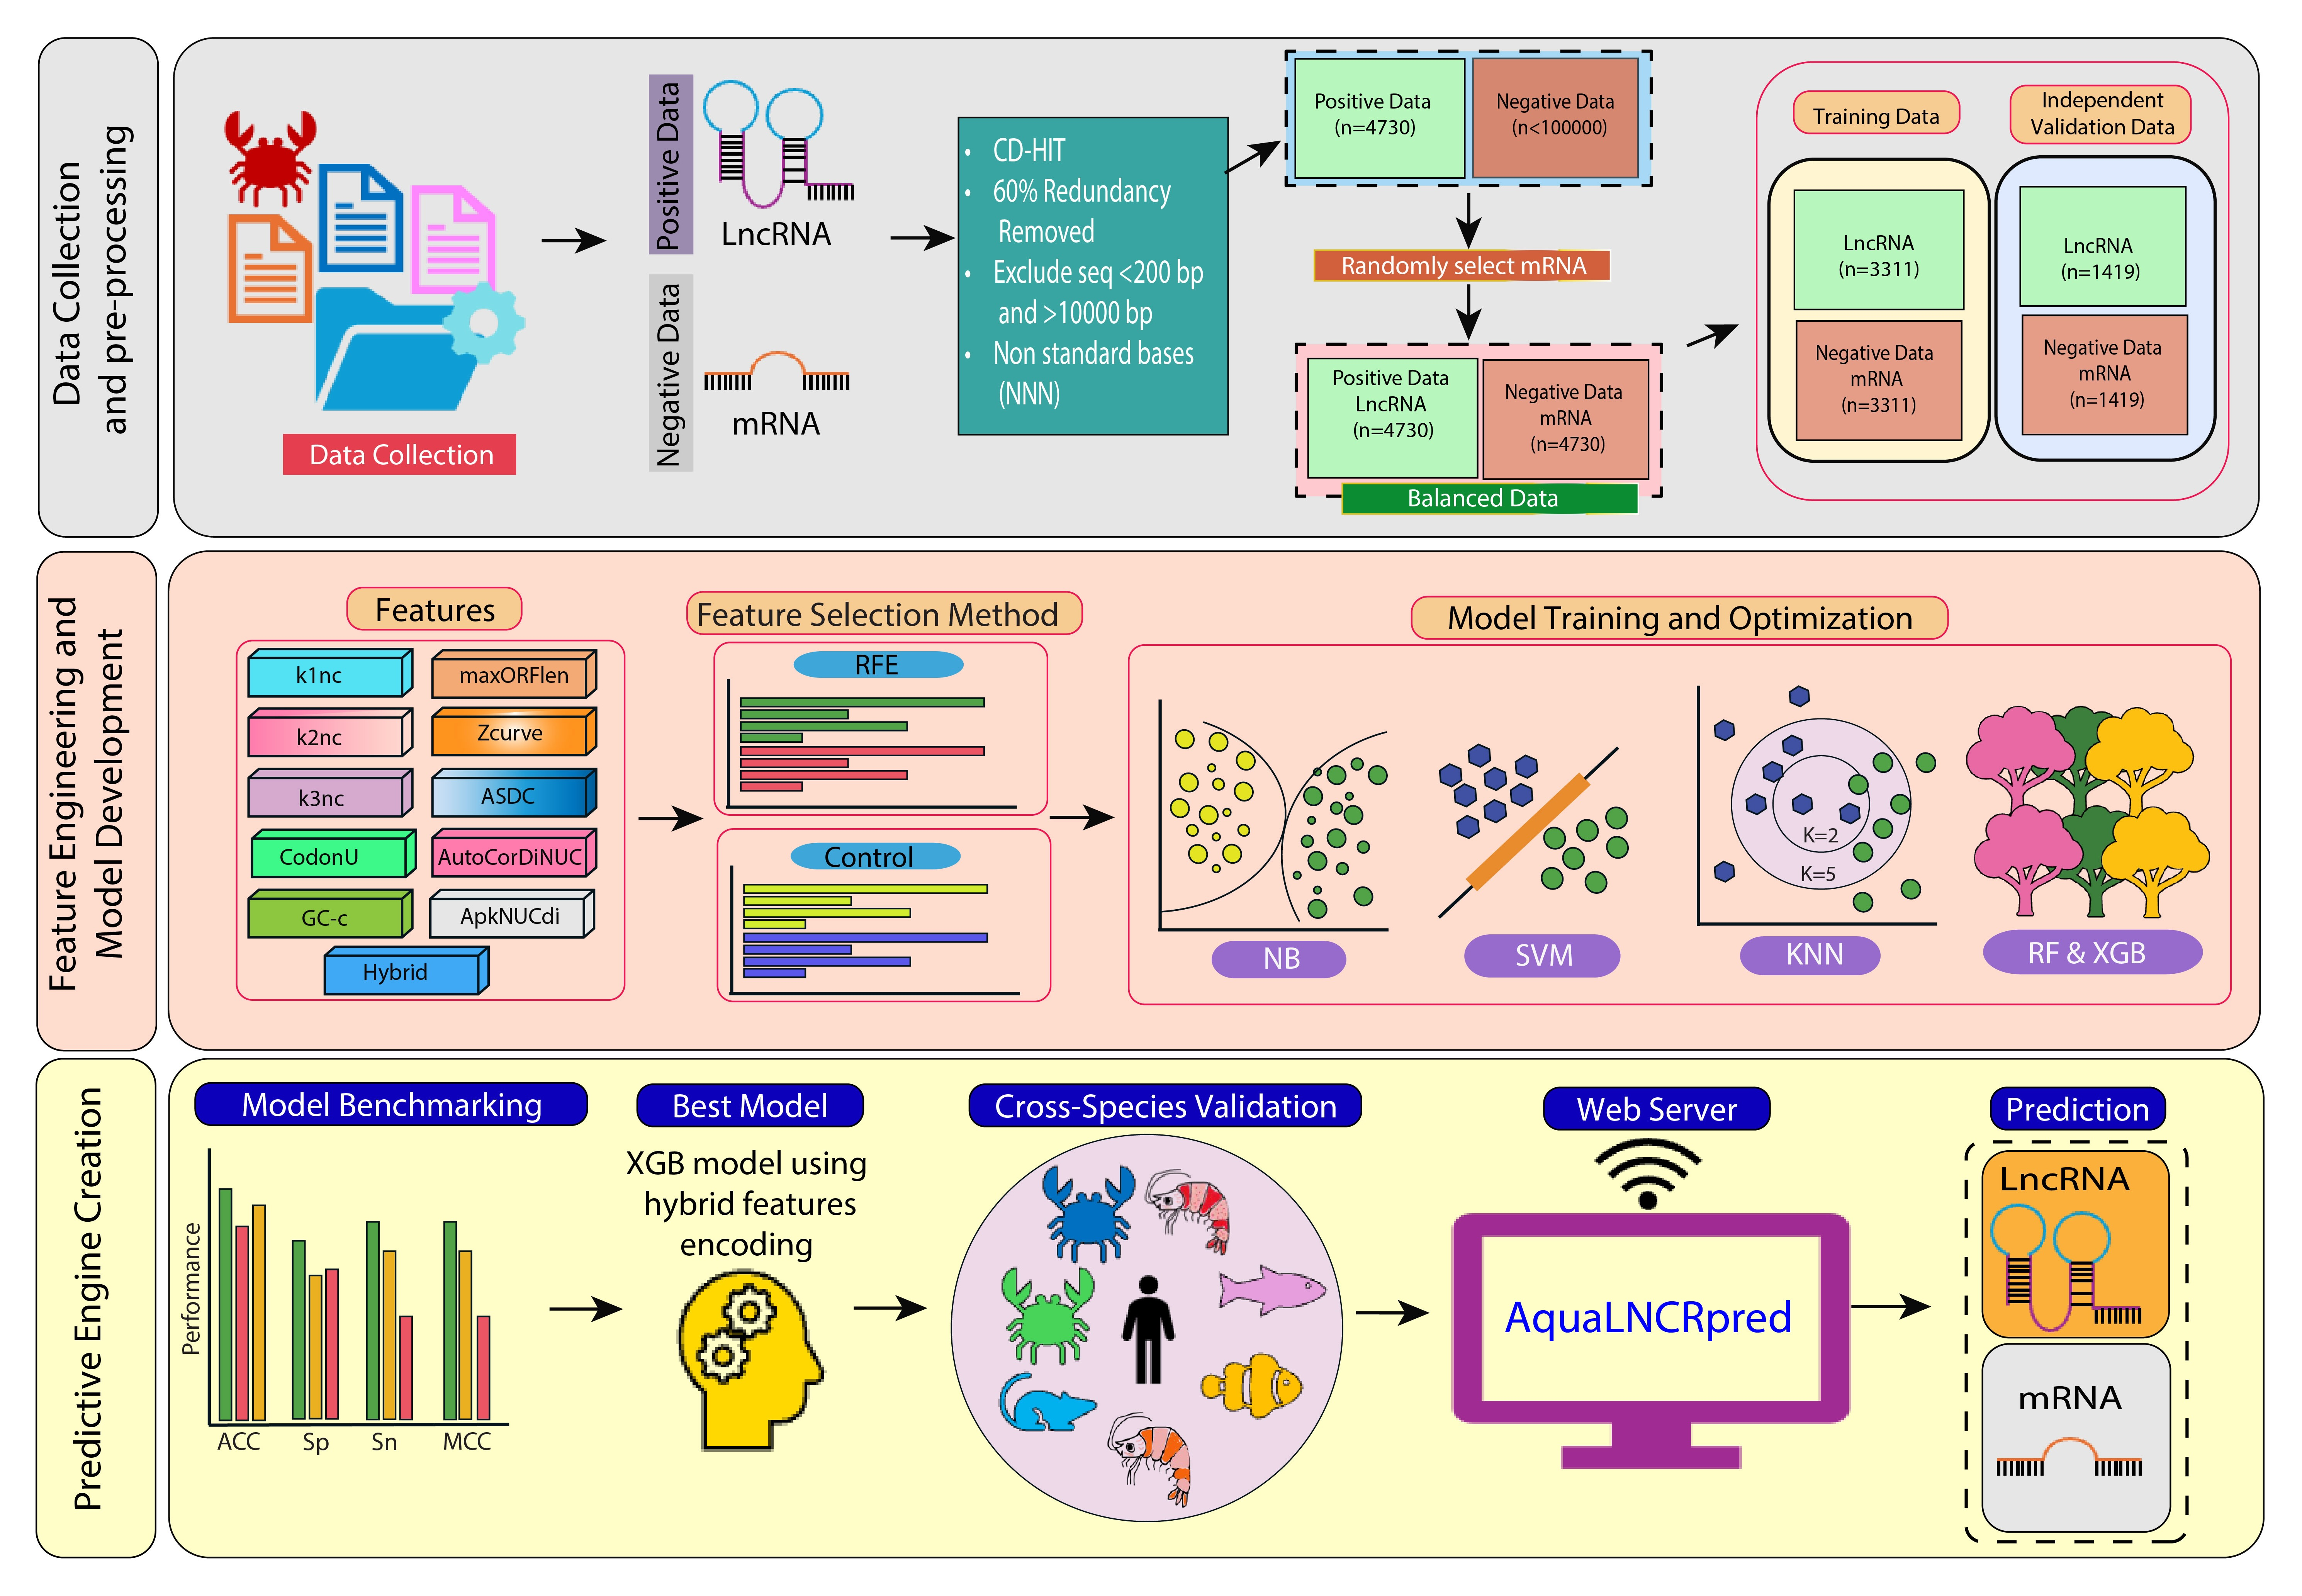
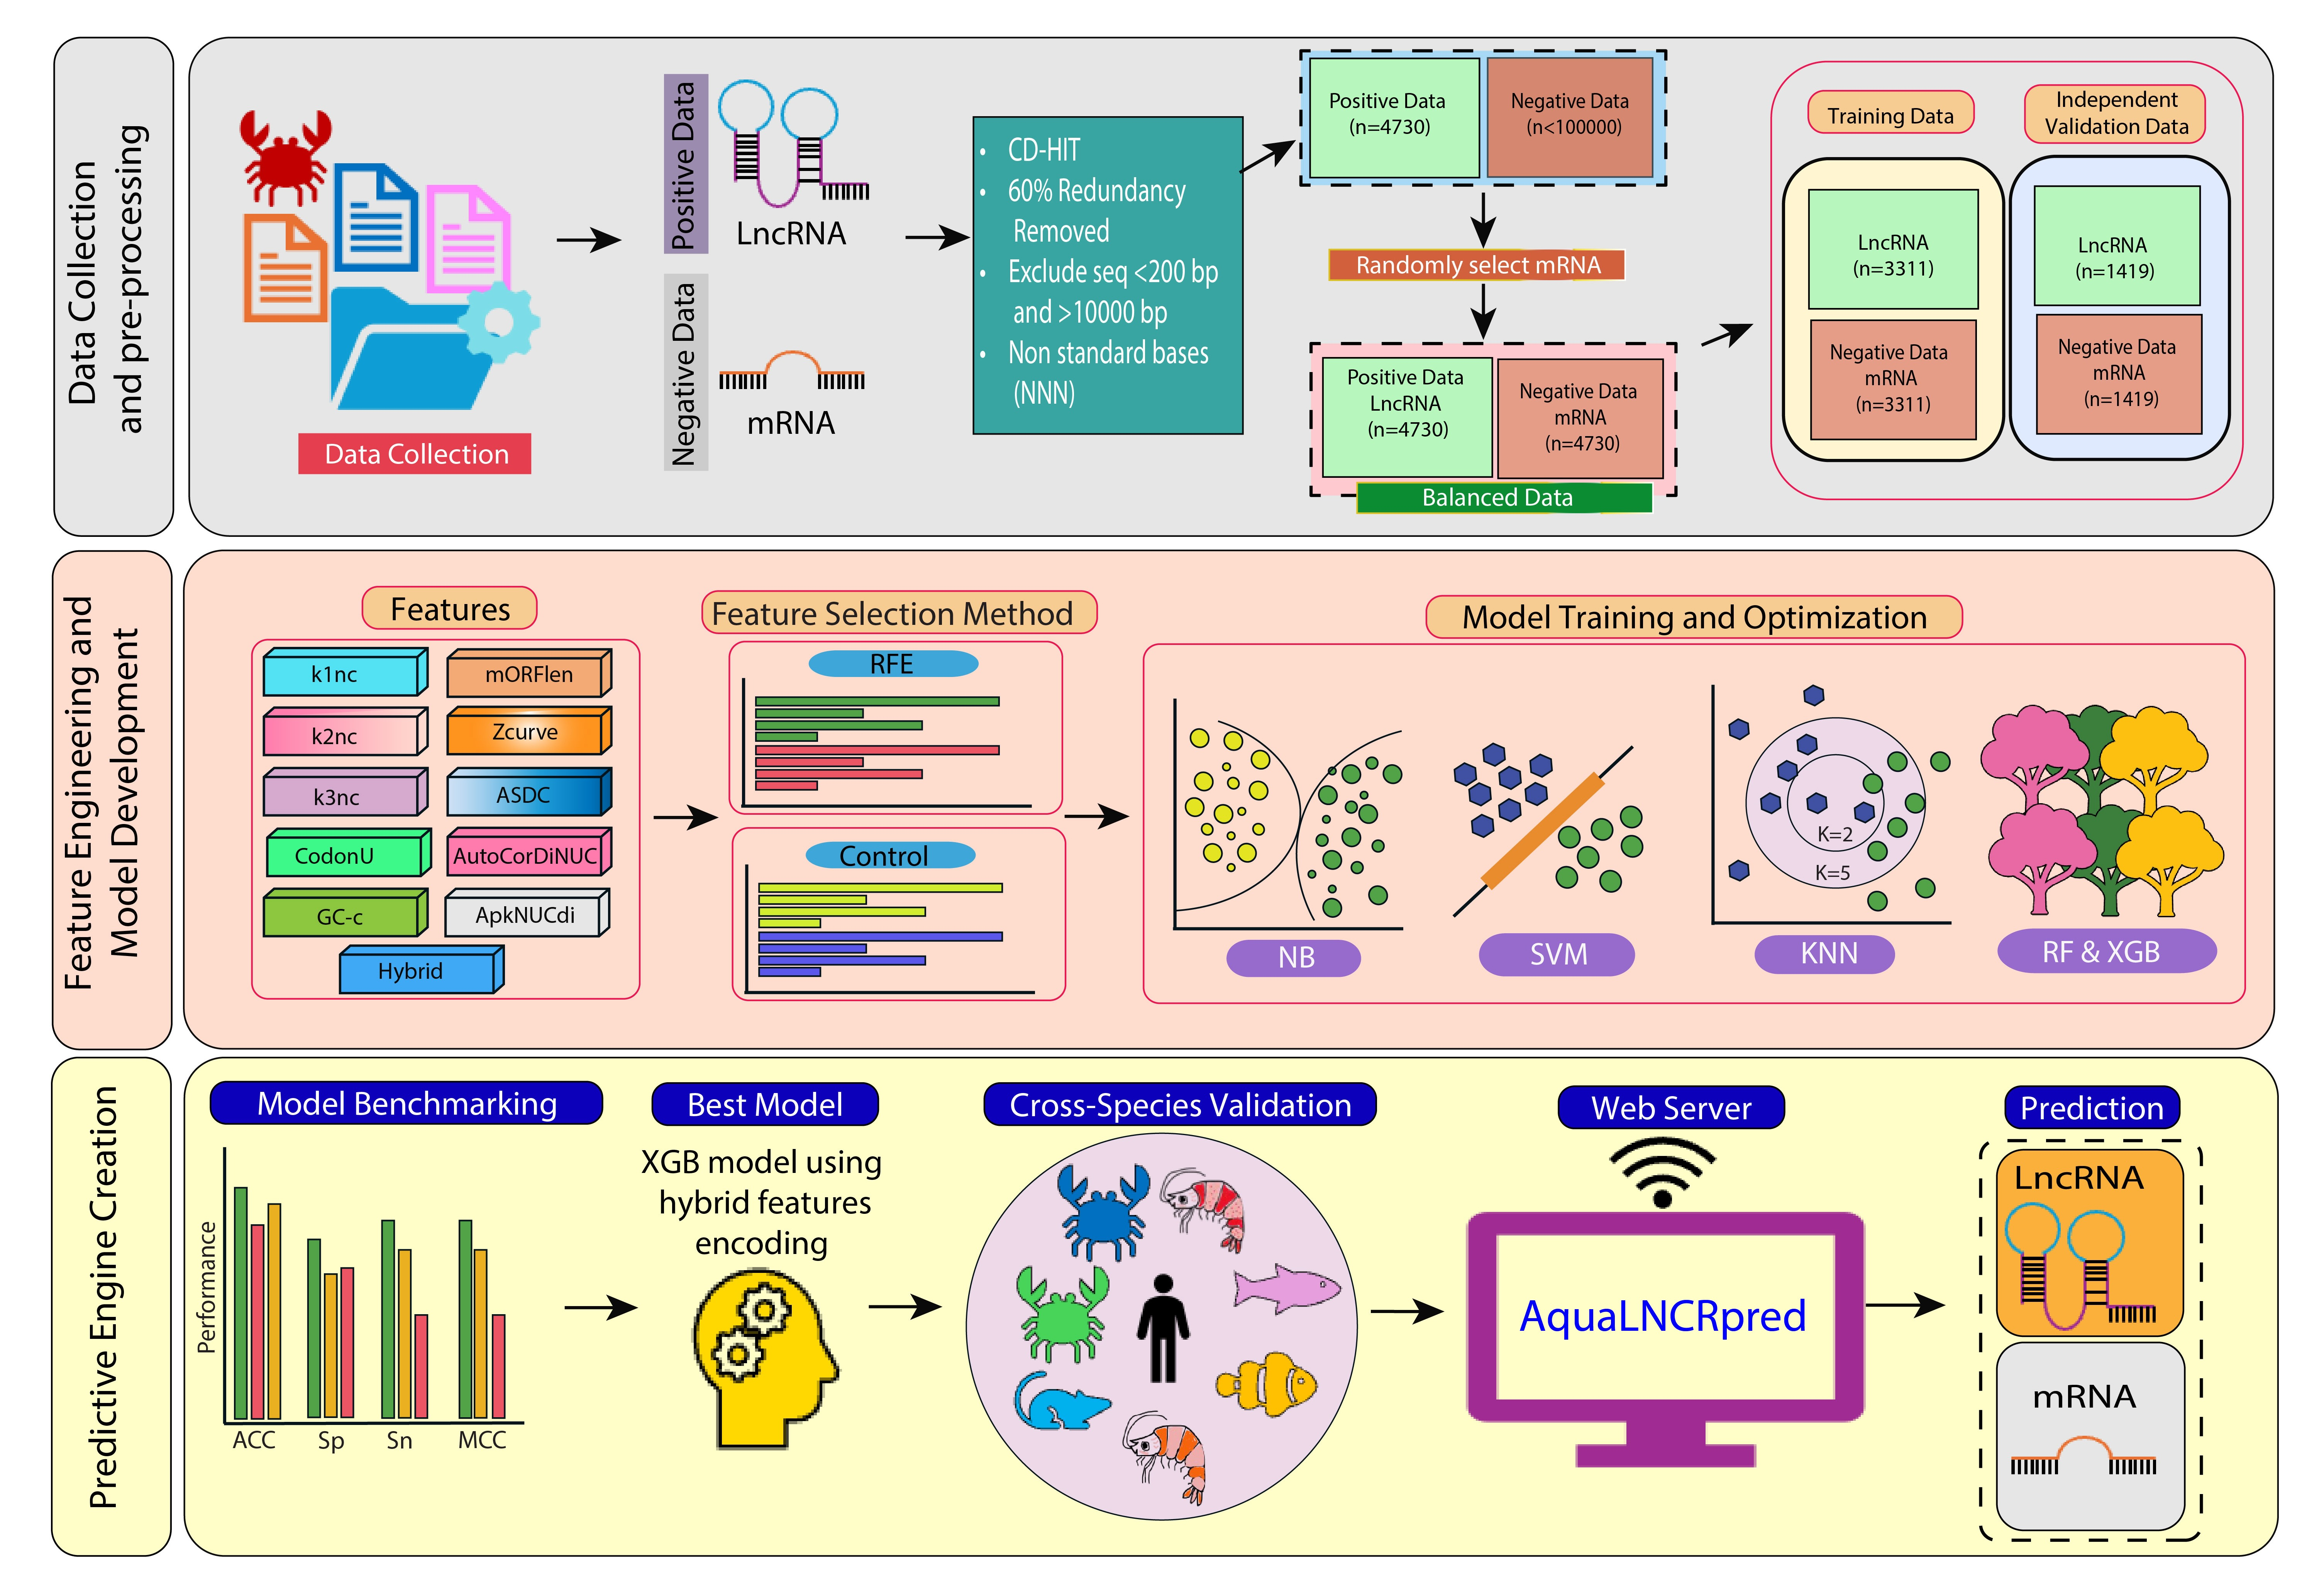
Update AquaLNCRpred documentation and figures

diff --git a/README.md b/README.md
@@ -2,7 +2,28 @@
 
 A web server for predicting long non-coding RNA (lncRNA) sequences in *Eriocheir sinensis* (Chinese Mitten Crab) and related aquaculture organisms.
 
-## Installation
+## 1. Download AquaLNCRpred
+
+Download the source code from the GitHub repository:
+
+[AquaLNCRpred GitHub Repository](https://github.com/malik010/AquaLNCRpred?utm_source=chatgpt.com)
+
+### Option A: Download ZIP Archive
+
+1. Open the repository link above.
+2. Click **Code** → **Download ZIP**.
+3. Extract the downloaded ZIP file to your desired directory.
+
+### Option B: Clone Using Git
+
+```bash
+git clone https://github.com/malik010/AquaLNCRpred.git
+cd AquaLNCRpred
+```
+
+## 2. Installation
+
+Install the required R packages:
 
 ```r
 install.packages(c(
@@ -21,3 +42,30 @@ install.packages(c(
   "doParallel",
   "xgboost"
 ))
+```
+
+## 3. Run AquaLNCRpred as a Local Web Server
+
+After all required packages have been installed successfully:
+
+1. Start R.
+
+2. Load the `shiny` package:
+
+```r
+library(shiny)
+```
+
+3. Set the working directory to the AquaLNCRpred folder:
+
+```r
+setwd("path/to/AquaLNCRpred")
+```
+
+4. Run the application:
+
+```r
+runApp("app.R")
+```
+
+The AquaLNCRpred web interface will open automatically in your default web browser.

diff --git a/markdown/download.md b/markdown/download.md
@@ -30,14 +30,13 @@ Navigate to this directory and follow the instructions provided in the `README` 
 
 ## 2. Complete Shiny Application
 
-The complete AquaLNCRpred Shiny application can be downloaded and deployed locally from the GitHub repository:
+The complete AquaLNCRpred Shiny application can be downloaded and deployed locally as a webserver from the GitHub repository:
 
 **GitHub Repository:**
 
 ```text
-https://github.com/USERNAME/AquaLNCRpred
+https://github.com/malik010/AquaLNCRpred
 ```
 
-Replace the above URL with the actual GitHub repository link.
 
 After downloading or cloning the repository, follow the installation instructions provided in the repository documentation to run the application on your local machine.